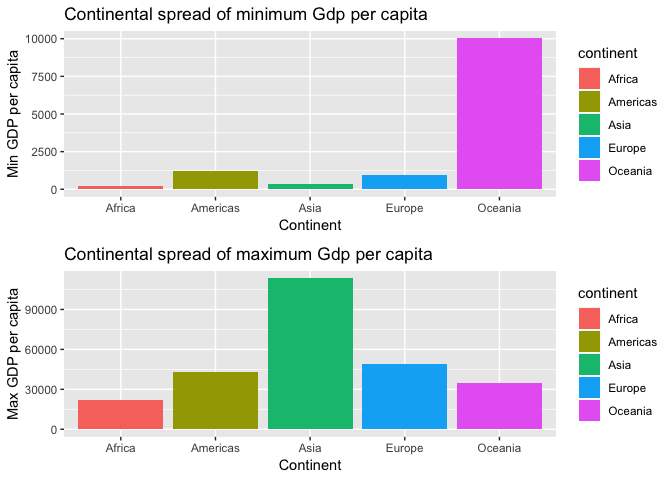
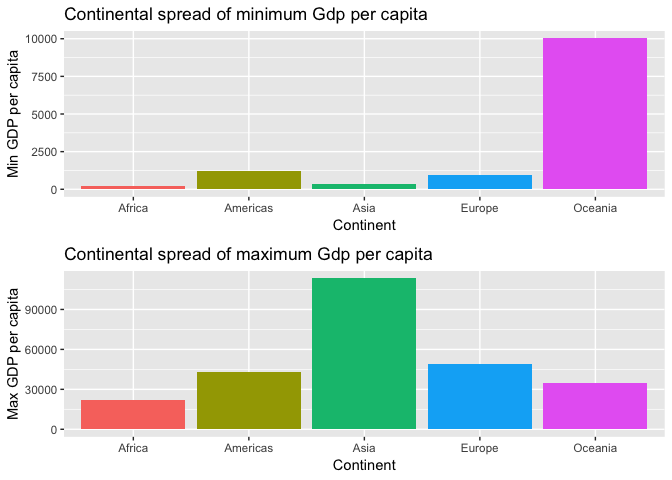
figure legend removal

diff --git a/HW_03.md b/HW_03.md
@@ -56,7 +56,8 @@ Min_graph <- Max_Min_gdpPercap_continent %>%
     geom_col() +
     ggtitle("Continental spread of minimum Gdp per capita") +
     xlab("Continent") +
-    ylab("Min GDP per capita")
+    ylab("Min GDP per capita") +
+    theme(legend.position = "none")
 ```
 
 ``` r
@@ -65,7 +66,8 @@ Max_graph <- Max_Min_gdpPercap_continent %>%
     geom_col() +
     ggtitle("Continental spread of maximum Gdp per capita") +
     xlab("Continent") +
-    ylab("Max GDP per capita")
+    ylab("Max GDP per capita")+
+    theme(legend.position = "none")
 ```
 
 I have created a graph for both min GDP and max GDP, I will put them next to each other for easy comparison
